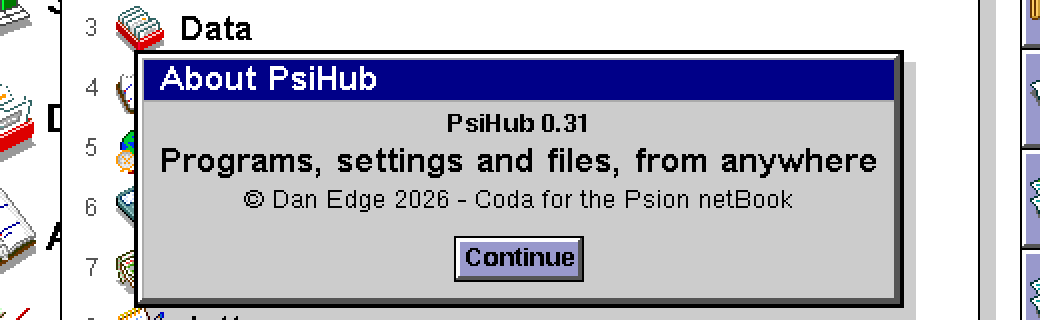
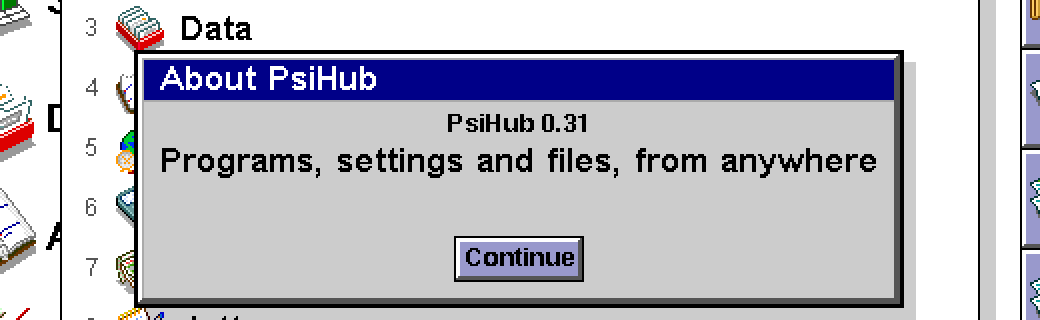
Take the author's name off the blog

Changed region(s): [[0.4615, 0.5938, 0.7692, 0.6562], [0.2154, 0.5938, 0.4308, 0.6562]]

diff --git a/STATUS.md b/STATUS.md
@@ -85,7 +85,7 @@ Everything Coda changes, one row each, with a screenshot of the bit that changed
 | Highlights | The chosen file, menu item and list row were black, as on the old grey screens. | Navy on Coda, the same navy as Psion's title bars, and the infoprints too. Classic keeps Psion's black; the other themes keep their own colours. | <a href="img/2026-11-15-polish-3/menu-before.png"><img src="img/2026-11-15-polish-3/menu-before.png" width="140" alt="Highlights"></a> <a href="img/2026-11-15-polish-3/menu-after.png"><img src="img/2026-11-15-polish-3/menu-after.png" width="140" alt="Highlights"></a> | [post](posts/2026-11-14-colour-everywhere.md) |
 | Theme list | The standard theme sat last, as "Classic, soft clock". | Called Coda and listed first, in the Control panel and in PsiHub. A theme already chosen stays chosen. | <a href="img/2026-11-15-polish-3/themes-before.png"><img src="img/2026-11-15-polish-3/themes-before.png" width="140" alt="Theme list"></a> <a href="img/2026-11-15-polish-3/themes-after.png"><img src="img/2026-11-15-polish-3/themes-after.png" width="140" alt="Theme list"></a> | [post](posts/2026-11-14-colour-everywhere.md) |
 | PsiHub panel | The panel jumped up and down as I typed, the right column said "Word" next to Word and "open" a lot, and System had no icon. | The search box stays put and the bottom edge moves. The right column only shows a file name that says something new. System gets the System screen's own desk icon. | <a href="img/2026-11-15-polish-3/hub-before.png"><img src="img/2026-11-15-polish-3/hub-before.png" width="140" alt="PsiHub panel"></a> <a href="img/2026-11-15-polish-3/hub-after.png"><img src="img/2026-11-15-polish-3/hub-after.png" width="140" alt="PsiHub panel"></a> <a href="img/2026-11-15-polish-3/hub-system-before.png"><img src="img/2026-11-15-polish-3/hub-system-before.png" width="140" alt="PsiHub panel"></a> <a href="img/2026-11-15-polish-3/hub-system-after.png"><img src="img/2026-11-15-polish-3/hub-system-after.png" width="140" alt="PsiHub panel"></a> | [post](posts/2026-11-14-psihub-and-psistart.md) |
-| About boxes | About PsiHub came up titled "Information", with "(c)". | Proper About PsiHub and About PsiView boxes with a real © sign. | <a href="img/2026-11-15-polish-3/about-before.png"><img src="img/2026-11-15-polish-3/about-before.png" width="140" alt="About boxes"></a> <a href="img/2026-11-15-polish-3/about-after.png"><img src="img/2026-11-15-polish-3/about-after.png" width="140" alt="About boxes"></a> | [post](posts/2026-11-14-psihub-and-psistart.md) |
+| About boxes | About PsiHub came up titled "Information". | Proper About PsiHub and About PsiView boxes. | <a href="img/2026-11-15-polish-3/about-before.png"><img src="img/2026-11-15-polish-3/about-before.png" width="140" alt="About boxes"></a> <a href="img/2026-11-15-polish-3/about-after.png"><img src="img/2026-11-15-polish-3/about-after.png" width="140" alt="About boxes"></a> | [post](posts/2026-11-14-psihub-and-psistart.md) |
 | PsiHub on a small screen | With lots of programs open, PsiHub's list ran off the bottom of a Series 5mx's screen, taking the last rows and the hint line with it. | The panel shows as many rows as fit the screen (five on the 5mx, nine on the netBook) and scrolls through the rest, with "2 of 12" on the hint line. | <a href="img/2026-11-15-hub-033/hub-5mx-before.png"><img src="img/2026-11-15-hub-033/hub-5mx-before.png" width="140" alt="PsiHub on a small screen"></a> <a href="img/2026-11-15-hub-033/hub-5mx-after.png"><img src="img/2026-11-15-hub-033/hub-5mx-after.png" width="140" alt="PsiHub on a small screen"></a> | [post](posts/2026-11-14-psihub-and-psistart.md) |
 | PsiHub restart and settings | PsiHub's restart command was "Restart netBook...", and not every Control panel item could be opened from it on every machine. | Plain "Restart..." (it asks "Restart now?"), offered on the Series 5mx too; every item in the Control panel is listed and opens from PsiHub, the right one each time, on the netBook (Programs included) and the 5mx. | <a href="img/2026-11-15-hub-034/hub-nb-search-before.png"><img src="img/2026-11-15-hub-034/hub-nb-search-before.png" width="140" alt="PsiHub restart"></a> <a href="img/2026-11-15-hub-034/hub-nb-search-after.png"><img src="img/2026-11-15-hub-034/hub-nb-search-after.png" width="140" alt="PsiHub restart"></a> | [post](posts/2026-11-14-psihub-and-psistart.md) |
 | PsiHub with Coda's extras on a 5mx | Internet time, Text and Screenshot came only with Coda's ROM, and a Series 5mx has nothing running in the background to catch the screenshot key. | PsiHub 0.35 starts a small background helper when it opens, if those three items are installed on a 5mx, and finds Internet time and Screenshot on any disk. On the netBook, where Coda's own start-up program does this, nothing changes. | <a href="img/2026-11-15-hub-035/hub-nb-screenshot.png"><img src="img/2026-11-15-hub-035/hub-nb-screenshot.png" width="140" alt="PsiHub with Screenshot and Screenshot now on the netBook"></a> <a href="img/2026-11-15-hub-035/control-panel-5mx.png"><img src="img/2026-11-15-hub-035/control-panel-5mx.png" width="140" alt="The Series 5mx Control panel with Text, Internet time and Screenshot"></a> | [post](posts/2026-11-14-psihub-and-psistart.md) |
@@ -122,7 +122,7 @@ Everything Coda changes, one row each, with a screenshot of the bit that changed
 | Documents bar | Navy in every theme. | Its two tiles painted in the theme's colours. | <a href="img/2026-11-14-colour-everywhere/documents-bar.png"><img src="img/2026-11-14-colour-everywhere/documents-bar.png" width="200" alt="Documents bar"></a> | [post](posts/2026-11-14-colour-everywhere.md) |
 | Wallpapers | Psion's logo only. | Coda (the standard), Coda psi, Coda hills and Coda sweep, drawn in the theme, through EPOC's own Preferences. A wallpaper chosen under its old name is renamed at start, so it still shows. | <a href="img/2026-11-14-the-name-coda/wallpaper-list.png"><img src="img/2026-11-14-the-name-coda/wallpaper-list.png" width="200" alt="Wallpapers"></a> | [post](posts/2026-11-14-the-name-coda.md) |
 | Coda wallpaper | The new name had no picture. | The coda sign (an oval crossed by two lines) on a quiet disc, in the theme's colours. The standard wallpaper. | <a href="img/2026-11-14-the-name-coda/wallpaper-coda.png"><img src="img/2026-11-14-the-name-coda/wallpaper-coda.png" width="200" alt="Coda wallpaper"></a> | [post](posts/2026-11-14-the-name-coda.md) |
-| Coda shapes wallpaper | Not there. | Dan's flat picture of discs, rings, arches and dots, drawn again for the netBook from simple shapes: cream, yellow, lavender and peach on the right and at the bottom, the side behind the list kept calm. Darker on the dark theme. Chosen in Preferences > Wallpaper. Every wallpaper is now kept as a picture the System screen uses in place, as Psion's own is: one saved the usual way was wiped from the screen within a minute of being chosen. | <a href="img/2026-11-15-coda-shapes/shapes-2x.png"><img src="img/2026-11-15-coda-shapes/shapes-2x.png" width="200" alt="Coda shapes wallpaper"></a> | |
+| Coda shapes wallpaper | Not there. | A flat picture of discs, rings, arches and dots, drawn again for the netBook from simple shapes: cream, yellow, lavender and peach on the right and at the bottom, the side behind the list kept calm. Darker on the dark theme. Chosen in Preferences > Wallpaper. Every wallpaper is now kept as a picture the System screen uses in place, as Psion's own is: one saved the usual way was wiped from the screen within a minute of being chosen. | <a href="img/2026-11-15-coda-shapes/shapes-2x.png"><img src="img/2026-11-15-coda-shapes/shapes-2x.png" width="200" alt="Coda shapes wallpaper"></a> | |
 | Psion's wallpaper | A white box on a dark theme. | Its ground in the theme's colour; named "Psion EPOC". | <a href="img/2026-11-14-colour-everywhere/system-dark.png"><img src="img/2026-11-14-colour-everywhere/system-dark.png" width="200" alt="Psion's wallpaper"></a> | [post](posts/2026-11-14-colour-everywhere.md) |
 | The desk | A shimmering dotted tile behind Calc, Record and Spell. | Plain, in the theme's ground. | <a href="img/2026-11-14-review/desk-before.png"><img src="img/2026-11-14-review/desk-before.png" width="140" alt="The desk"></a> <a href="img/2026-11-14-review/desk-after.png"><img src="img/2026-11-14-review/desk-after.png" width="140" alt="The desk"></a> | [post](posts/2026-11-14-the-review.md) |
 | Contrast strip | 15 greys on a colour screen. | Greys and mid-tone colours from the cube. | <a href="img/2026-11-14-review/contrast-before.png"><img src="img/2026-11-14-review/contrast-before.png" width="140" alt="Contrast strip"></a> <a href="img/2026-11-14-review/contrast-after.png"><img src="img/2026-11-14-review/contrast-after.png" width="140" alt="Contrast strip"></a> | [post](posts/2026-11-14-the-review.md) |
